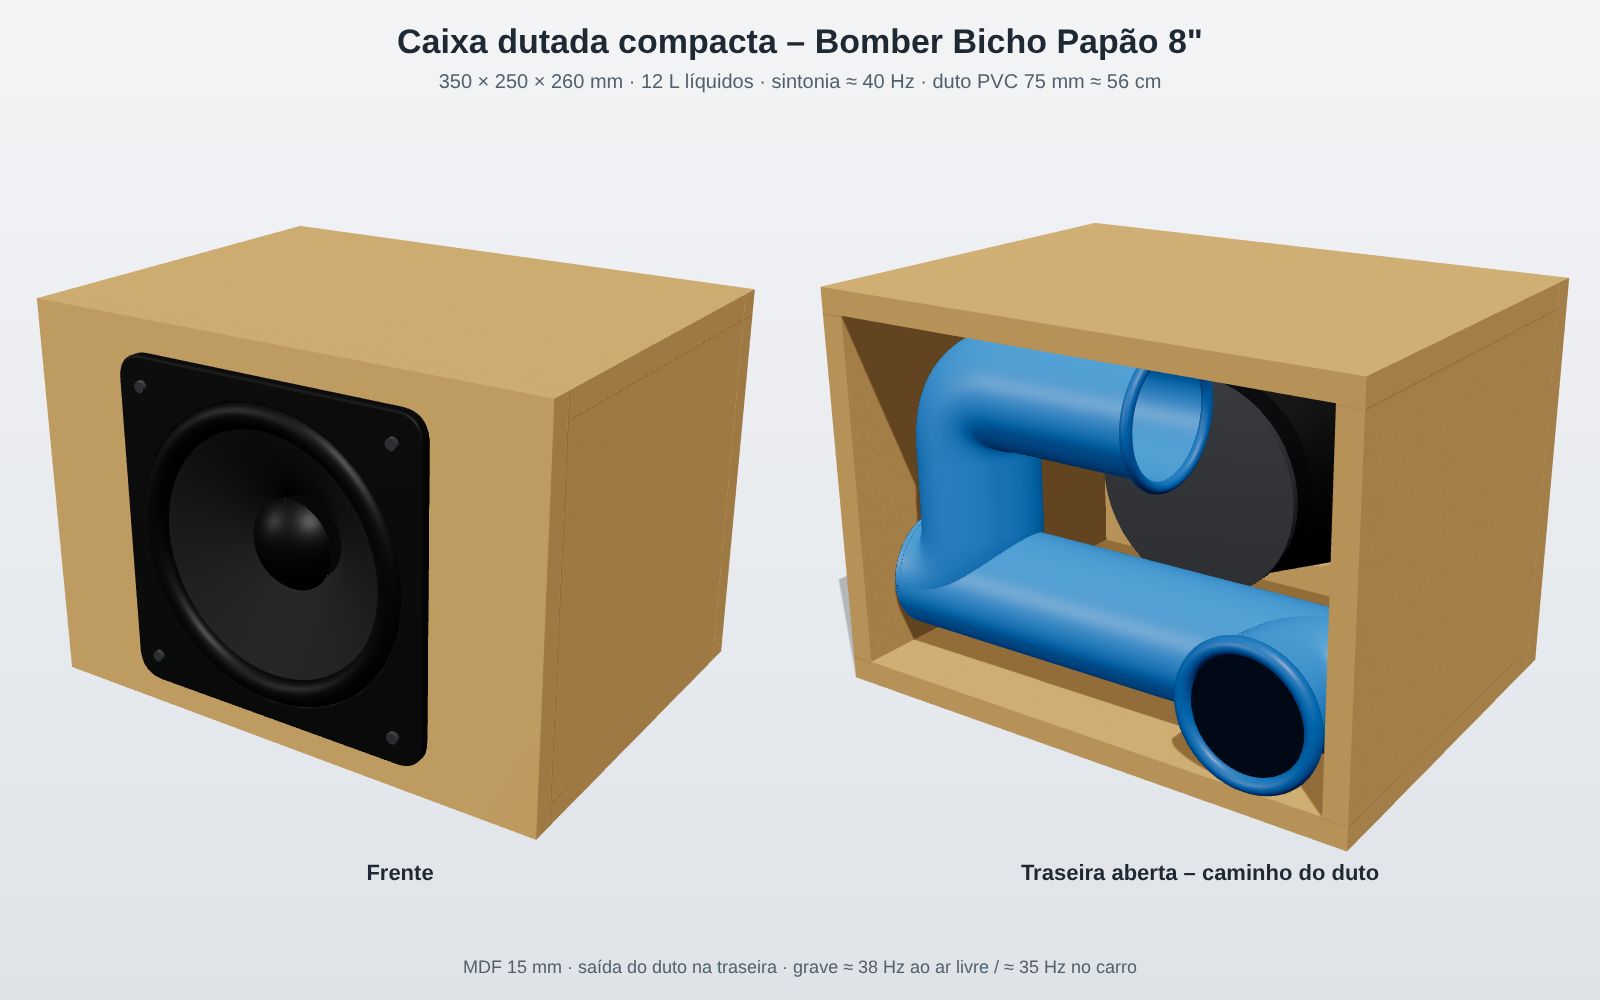
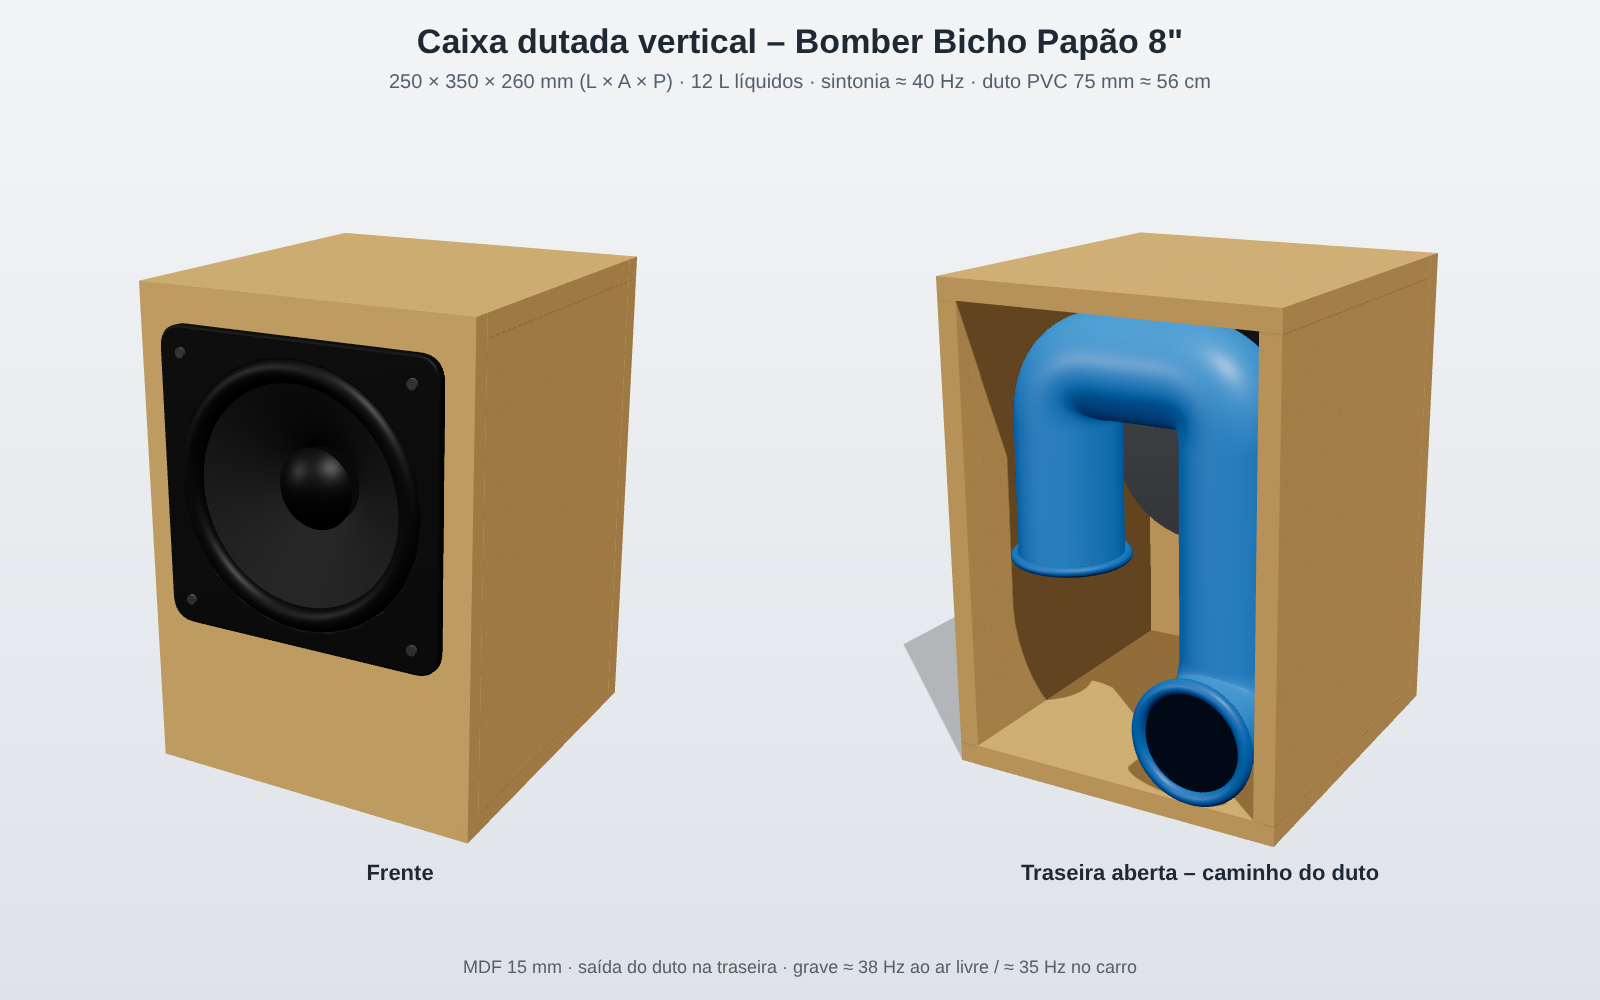
Muda caixa do BP 8" para formato vertical
Claude-Session: https://claude.ai/code/session_01Xqr2b8JS1uj39tzQWZP4xF

diff --git a/ferramentas/render3d/index.html b/ferramentas/render3d/index.html
@@ -6,18 +6,19 @@ body{margin:0;width:1600px;height:1000px;background:linear-gradient(#f3f4f6,#dfe
 .l{position:absolute;top:860px;width:800px;text-align:center;font-size:22px;font-weight:bold;color:#1f2933}
 #f{position:absolute;bottom:22px;width:100%;text-align:center;font-size:18px;color:#52606d}
 </style></head><body>
-<div id="t">Caixa dutada compacta – Bomber Bicho Papão 8"</div>
-<div id="s">350 × 250 × 260 mm · 12 L líquidos · sintonia ≈ 40 Hz · duto PVC 75 mm ≈ 56 cm</div>
+<div id="t">Caixa dutada vertical – Bomber Bicho Papão 8"</div>
+<div id="s">250 × 350 × 260 mm (L × A × P) · 12 L líquidos · sintonia ≈ 40 Hz · duto PVC 75 mm ≈ 56 cm</div>
 <div class="c" id="a" style="left:0"></div><div class="c" id="b" style="left:800px"></div>
 <div class="l" style="left:0">Frente</div><div class="l" style="left:800px">Traseira aberta – caminho do duto</div>
 <div id="f">MDF 15 mm · saída do duto na traseira · grave ≈ 38 Hz ao ar livre / ≈ 35 Hz no carro</div>
 <script src="node_modules/three/build/three.min.js"></script>
 <script>
-const W=35,H=25,D=26,T=1.5;
+const W=25,H=35,D=26,T=1.5;const DY=4.5;
 function mdfTex(){const c=document.createElement('canvas');c.width=c.height=512;const g=c.getContext('2d');
  g.fillStyle='#c79b5e';g.fillRect(0,0,512,512);
  for(let i=0;i<4000;i++){g.fillStyle=`rgba(${120+Math.random()*60|0},${85+Math.random()*40|0},${40+Math.random()*30|0},${Math.random()*0.18})`;g.fillRect(Math.random()*512,Math.random()*512,2,2);}
  const t=new THREE.CanvasTexture(c);t.colorSpace=THREE.SRGBColorSpace;return t;}
+const X0=xr=>11-xr, Y0=yr=>-16+yr;
 function scene(open){
  const s=new THREE.Scene();
  const mdf=new THREE.MeshStandardMaterial({map:mdfTex(),roughness:0.85});
@@ -26,14 +27,14 @@ function scene(open){
  const panel=(w,h,d,x,y,z,m=mdf)=>{const p=new THREE.Mesh(new THREE.BoxGeometry(w,h,d),m);p.position.set(x,y,z);p.castShadow=p.receiveShadow=true;g.add(p);return p;};
  // painéis: frente (+z) com furo
  const sh=new THREE.Shape();sh.moveTo(-W/2,-H/2);sh.lineTo(W/2,-H/2);sh.lineTo(W/2,H/2);sh.lineTo(-W/2,H/2);sh.lineTo(-W/2,-H/2);
- const hole=new THREE.Path();hole.absarc(0,0,9.25,0,Math.PI*2,true);sh.holes.push(hole);
+ const hole=new THREE.Path();hole.absarc(0,DY,9.25,0,Math.PI*2,true);sh.holes.push(hole);
  const fr=new THREE.Mesh(new THREE.ExtrudeGeometry(sh,{depth:T,bevelEnabled:false}),mdf);fr.position.z=D/2-T;fr.castShadow=true;g.add(fr);
  panel(W,T,D-T,0,-H/2+T/2,-T/2);panel(W,T,D-T,0,H/2-T/2,-T/2);
  panel(T,H-2*T,D-T,-W/2+T/2,0,-T/2);panel(T,H-2*T,D-T,W/2-T/2,0,-T/2);
  // interior claro
  // (sem painel interno)
  if(!open){const bk=new THREE.Shape();bk.moveTo(-W/2,-H/2);bk.lineTo(W/2,-H/2);bk.lineTo(W/2,H/2);bk.lineTo(-W/2,H/2);bk.lineTo(-W/2,-H/2);
-  const p=new THREE.Path();p.absarc(-11.5,-6.5,3.75,0,Math.PI*2,true);bk.holes.push(p);
+  const p=new THREE.Path();p.absarc(X0(17.5),Y0(4.5),3.75,0,Math.PI*2,true);bk.holes.push(p);
   const b=new THREE.Mesh(new THREE.ExtrudeGeometry(bk,{depth:T,bevelEnabled:false}),mdf);b.position.z=-D/2;g.add(b);}
  else{ // traseira removida: mostrar borda dos painéis; não desenha tampa
  }
@@ -42,34 +43,35 @@ function scene(open){
  const cone=new THREE.MeshStandardMaterial({color:0x2a2a2a,roughness:0.9,side:THREE.DoubleSide});
  const rub=new THREE.MeshStandardMaterial({color:0x111111,roughness:0.5});
  const metal=new THREE.MeshStandardMaterial({color:0xb8bcc2,metalness:0.9,roughness:0.3});
- const zf=D/2;
+ const zf=D/2; const spk=new THREE.Group(); spk.position.y=DY; g.add(spk); const gg=g;
  const fs=new THREE.Shape();const r=1.6,a=10.35;fs.moveTo(-a+r,-a);fs.lineTo(a-r,-a);fs.quadraticCurveTo(a,-a,a,-a+r);fs.lineTo(a,a-r);fs.quadraticCurveTo(a,a,a-r,a);fs.lineTo(-a+r,a);fs.quadraticCurveTo(-a,a,-a,a-r);fs.lineTo(-a,-a+r);fs.quadraticCurveTo(-a,-a,-a+r,-a);
  const fh=new THREE.Path();fh.absarc(0,0,9.3,0,Math.PI*2,true);fs.holes.push(fh);
- const frame=new THREE.Mesh(new THREE.ExtrudeGeometry(fs,{depth:0.5,bevelEnabled:true,bevelSize:0.15,bevelThickness:0.15}),black);frame.position.z=zf;frame.castShadow=true;g.add(frame);
- const sur=new THREE.Mesh(new THREE.TorusGeometry(8.4,0.85,24,96),rub);sur.position.z=zf+0.25;g.add(sur);
+ const frame=new THREE.Mesh(new THREE.ExtrudeGeometry(fs,{depth:0.5,bevelEnabled:true,bevelSize:0.15,bevelThickness:0.15}),black);frame.position.z=zf;frame.castShadow=true;spk.add(frame);
+ const sur=new THREE.Mesh(new THREE.TorusGeometry(8.4,0.85,24,96),rub);sur.position.z=zf+0.25;spk.add(sur);
  const pts=[];for(let i=0;i<=20;i++){const t=i/20;pts.push(new THREE.Vector2(2.6+t*(7.6-2.6),-3.2+Math.pow(t,0.8)*3.4));}
- const cn=new THREE.Mesh(new THREE.LatheGeometry(pts,96),cone);cn.rotation.x=Math.PI/2;cn.position.z=zf+0.2;g.add(cn);
- const cap=new THREE.Mesh(new THREE.SphereGeometry(3.4,48,24,0,Math.PI*2,0,Math.PI/3.2),rub);cap.rotation.x=Math.PI/2;cap.position.z=zf-3.6;g.add(cap);
- for(const[x,y]of[[-8.7,-8.7],[8.7,-8.7],[-8.7,8.7],[8.7,8.7]]){const sc=new THREE.Mesh(new THREE.CylinderGeometry(0.35,0.35,0.3,16),metal);sc.rotation.x=Math.PI/2;sc.position.set(x,y,zf+0.8);g.add(sc);}
+ const cn=new THREE.Mesh(new THREE.LatheGeometry(pts,96),cone);cn.rotation.x=Math.PI/2;cn.position.z=zf+0.2;spk.add(cn);
+ const cap=new THREE.Mesh(new THREE.SphereGeometry(3.4,48,24,0,Math.PI*2,0,Math.PI/3.2),rub);cap.rotation.x=Math.PI/2;cap.position.z=zf-3.6;spk.add(cap);
+ for(const[x,y]of[[-8.7,-8.7],[8.7,-8.7],[-8.7,8.7],[8.7,8.7]]){const sc=new THREE.Mesh(new THREE.CylinderGeometry(0.35,0.35,0.3,16),metal);sc.rotation.x=Math.PI/2;sc.position.set(x,y,zf+0.8);spk.add(sc);}
  // cesta + ímã (dentro)
- const bask=new THREE.Mesh(new THREE.CylinderGeometry(9,6.7,9.5,48,1,true),black);bask.rotation.x=Math.PI/2;bask.position.z=zf-T-4.75;g.add(bask);
- const mag=new THREE.Mesh(new THREE.CylinderGeometry(6.7,6.7,3.6,48),new THREE.MeshStandardMaterial({color:0x2d2f33,metalness:0.6,roughness:0.4}));mag.rotation.x=Math.PI/2;mag.position.z=zf-11.3;g.add(mag);
- const pl=new THREE.Mesh(new THREE.CylinderGeometry(6.9,6.9,0.5,48),metal);pl.rotation.x=Math.PI/2;pl.position.z=zf-13.3;g.add(pl);
+ const bask=new THREE.Mesh(new THREE.CylinderGeometry(9,6.7,9.5,48,1,true),black);bask.rotation.x=Math.PI/2;bask.position.z=zf-T-4.75;spk.add(bask);
+ const mag=new THREE.Mesh(new THREE.CylinderGeometry(6.7,6.7,3.6,48),new THREE.MeshStandardMaterial({color:0x2d2f33,metalness:0.6,roughness:0.4}));mag.rotation.x=Math.PI/2;mag.position.z=zf-11.3;spk.add(mag);
+ const pl=new THREE.Mesh(new THREE.CylinderGeometry(6.9,6.9,0.5,48),metal);pl.rotation.x=Math.PI/2;pl.position.z=zf-13.3;spk.add(pl);
  // duto
  const pvc=new THREE.MeshStandardMaterial({color:0x3d8bd4,roughness:0.45,metalness:0.05,side:THREE.DoubleSide});
- const zp=-D/2+T+4.5; const X=xr=>16-xr, Y=yr=>-11+yr;
+ const zp=-D/2+T+4.5; const X=X0, Y=Y0;
  const P=(x,y,z)=>new THREE.Vector3(x,y,z);
  const path=new THREE.CurvePath();const R=4.2;
  const seg=(a,b)=>path.add(new THREE.LineCurve3(a,b));const bend=(a,c,b)=>path.add(new THREE.QuadraticBezierCurve3(a,c,b));
- const ex=X(27.5),ey=Y(4.5),lx=X(4.5),ty=Y(17.5),endx=X(18.5);
- seg(P(ex,ey,-D/2),P(ex,ey,zp-R));bend(P(ex,ey,zp-R),P(ex,ey,zp),P(ex-R,ey,zp));
- seg(P(ex-R,ey,zp),P(lx+R,ey,zp));bend(P(lx+R,ey,zp),P(lx,ey,zp),P(lx,ey+R,zp));
- seg(P(lx,ey+R,zp),P(lx,ty-R,zp));bend(P(lx,ty-R,zp),P(lx,ty,zp),P(lx-R,ty,zp));
- seg(P(lx-R,ty,zp),P(endx,ty,zp));
+ const ex=X(17.5),ey=Y(4.5),ty=Y(27.5),lx=X(4.5),endy=Y(13.5);
+ seg(P(ex,ey,-D/2),P(ex,ey,zp-R));bend(P(ex,ey,zp-R),P(ex,ey,zp),P(ex,ey+R,zp));
+ seg(P(ex,ey+R,zp),P(ex,ty-R,zp));bend(P(ex,ty-R,zp),P(ex,ty,zp),P(ex+(lx>ex?R:-R),ty,zp));
+ seg(P(ex+(lx>ex?R:-R),ty,zp),P(lx-(lx>ex?R:-R),ty,zp));bend(P(lx-(lx>ex?R:-R),ty,zp),P(lx,ty,zp),P(lx,ty-R,zp));
+ seg(P(lx,ty-R,zp),P(lx,endy,zp));
+ const endx=lx;
  const tube=new THREE.Mesh(new THREE.TubeGeometry(path,300,3.75,48,false),pvc);tube.castShadow=true;g.add(tube);
  const ringM=new THREE.MeshStandardMaterial({color:0x2a6fb0,roughness:0.4});
  const fl=new THREE.Mesh(new THREE.TorusGeometry(3.95,0.5,16,64),ringM);fl.position.set(ex,ey,-D/2-0.1);g.add(fl);
- const fl2=new THREE.Mesh(new THREE.TorusGeometry(3.95,0.35,16,64),ringM);fl2.rotation.y=Math.PI/2;fl2.position.set(endx,ty,zp);g.add(fl2);
+ const fl2=new THREE.Mesh(new THREE.TorusGeometry(3.95,0.35,16,64),ringM);fl2.rotation.x=Math.PI/2;fl2.position.set(endx,endy,zp);g.add(fl2);
  const hole2=new THREE.Mesh(new THREE.CircleGeometry(3.6,48),new THREE.MeshBasicMaterial({color:0x0b1a2a}));hole2.position.set(ex,ey,-D/2-0.12);hole2.rotation.y=Math.PI;g.add(hole2);
  // chão + luz
  const fl0=new THREE.Mesh(new THREE.PlaneGeometry(400,400),new THREE.ShadowMaterial({opacity:0.22}));fl0.rotation.x=-Math.PI/2;fl0.position.y=-H/2-0.01;fl0.receiveShadow=true;s.add(fl0);
@@ -82,9 +84,9 @@ function render(id,open,cam){
  const el=document.getElementById(id);const rd=new THREE.WebGLRenderer({antialias:true,alpha:true,preserveDrawingBuffer:true});
  rd.setSize(800,780);rd.shadowMap.enabled=true;rd.shadowMap.type=THREE.PCFSoftShadowMap;rd.outputColorSpace=THREE.SRGBColorSpace;rd.toneMapping=THREE.ACESFilmicToneMapping;
  el.appendChild(rd.domElement);
- const c=new THREE.PerspectiveCamera(30,800/780,1,500);c.position.set(...cam);c.lookAt(0,-1,0);
+ const c=new THREE.PerspectiveCamera(30,800/780,1,500);c.position.set(...cam);c.lookAt(0,0.5,0);
  rd.render(scene(open),c);}
-render('a',false,[48,34,72]);
-render('b',true,[-46,30,-70]);
+render('a',false,[50,34,88]);
+render('b',true,[-48,32,-88]);
 window.done=true;
 </script></body></html>

diff --git a/notas/projeto-bomber-bp8.md b/notas/projeto-bomber-bp8.md
@@ -76,3 +76,12 @@ Simulação feita com `ferramentas/sim_compacta.py`, ao ar livre a 1 m. Potênci
 ![Caixa 3D](projeto-bp8-caixa-3d.png)
 
 Gerada por `ferramentas/render3d/`.
+
+## Versão vertical (atual)
+- **Medida externa:** 250 × 350 × 260 mm (L × A × P), em MDF de 15 mm.
+- **Medida interna:** 220 × 320 × 230 mm, ou seja, 16,2 L bruto e cerca de 12 L líquidos. É o mesmo volume da versão deitada, então a sintonia e o grave não mudam.
+- **Alto-falante:** um pouco acima do centro (centro a 45 mm acima do meio).
+- **Duto:** tubo PVC de 75 mm em "U" invertido, no plano a 45 mm da tampa traseira, com cerca de 56 cm pela linha central.
+  - Sai pela traseira, no canto de baixo.
+  - Sobe pela lateral, atravessa por cima e desce do outro lado até cerca de 13,5 cm do fundo.
+- A imagem 3D (`projeto-bp8-caixa-3d.png`) mostra esta versão.
